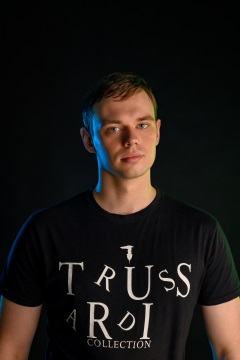
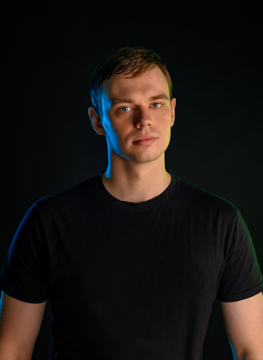
feat: advisors in /team page feat: facebook and linkedin links in /team fix: hide scroll when popup has been invoked fix: replace CTO and Dzera photos

diff --git a/src/views/team/Team.vue b/src/views/team/Team.vue
@@ -7,9 +7,24 @@
         </div>
       </div>
       <div class="row justify-content-center justify-content-md-between team-row">
-        <template v-for="person in team">
+        <template v-for="person in members">
           <div :key="person.name" class="col-12 col-md-6 col-lg-4 col-xl-3 mt-5">
             <team-member :person="person" @member="invokePopup($event)" />
+          </div>
+        </template>
+      </div>
+    </div>
+
+    <div class="container pb-5">
+      <div class="row">
+        <div class="col-12">
+          <h2 v-html="$t('team.advisors')" class="section-title team-title"></h2>
+        </div>
+      </div>
+      <div class="row team-row">
+        <template v-for="advisor in advisors">
+          <div :key="advisor.name" class="col-12 col-md-6 col-lg-4 col-xl-3 mt-5">
+            <team-member :person="advisor" @member="invokePopup($event)" />
           </div>
         </template>
       </div>
@@ -20,7 +35,7 @@
         <button
           type="button"
           class="popup__btn-close"
-          @click="showPopup = false"
+          @click="togglePopup"
         >
           <svg class="popup__close-icon">
             <use xlink:href="#close-popup-icon"></use>
@@ -104,6 +119,8 @@ export default {
             'Speaks 6 languages (Turkish, English, Hebrew, Farsi, Russian, Azerbaijani)',
             'Long track record of work in the financial market in Europe and CIS',
           ],
+          linkedin: 'https://www.linkedin.com/in/iliyabiniaminov/',
+          facebook: 'https://www.facebook.com/iliya.biniaminov1',
         },
         {
           name: 'Alex Mikh',
@@ -121,6 +138,8 @@ export default {
             'Was responsible for business negotiations aimed at obtaining a payment system license in Cyprus',
             'Responsible for developing a currencies exchange system service',
           ],
+          linkedin: 'https://www.linkedin.com/in/alexmihk/',
+          facebook: 'https://www.facebook.com/alexey.mikhantev',
         },
         {
           name: 'George Gus',
@@ -136,6 +155,8 @@ export default {
             'Owner of MakeFresh, international marketing agency',
             'Experience in promotion of international corporations with HQs in Europe, Turkey, Dubai',
           ],
+          linkedin: 'https://www.linkedin.com/in/georgegus/',
+          facebook: 'https://www.facebook.com/georgegus01',
         },
         {
           name: 'Zakaria Mekreloufi',
@@ -149,6 +170,8 @@ export default {
             'Founder of MKG Real Estate & Investment, a leading brokerage company for asset management in the Middle East and North Africa with a head office in Dubai, UAE',
             'Has a CFA level 1 certificate and works closely with the government of Dubai, attracting investments in the stock and financial markets, as well as small and medium-sized businesses',
           ],
+          linkedin: 'https://www.linkedin.com/in/zakaria-mekreloufi-731b61158/',
+          facebook: '',
         },
         {
           name: 'Andrew Skurlatov',
@@ -165,6 +188,8 @@ export default {
             'Designed and managed the development of DEX exchange based on a proprietary blockchain system of smart contracts',
             'Designed and managed the development of cryptocurrency indexes',
           ],
+          linkedin: '',
+          facebook: '',
         },
         {
           name: 'Ivan Podtsebnev',
@@ -179,6 +204,8 @@ export default {
             'Expert in the topics of intranet protocol, virtualization and storage systems, architecture of algo trading robots',
             '2 years of experience in Federal Agency of Government Communications and Information (FAGCI)',
           ],
+          linkedin: '',
+          facebook: '',
         },
         {
           name: 'Nikita Velko',
@@ -194,6 +221,8 @@ export default {
             'Experience in development at several startups with high ratings on Product Hunt',
             'Developed a system of cryptocurrencies graphics for DEX exchange indexes',
           ],
+          linkedin: '',
+          facebook: '',
         },
         {
           name: 'Alex Ponomaryov',
@@ -208,6 +237,8 @@ export default {
             'Knows Java, C#, C ++, as well as basic algorithms, data structures, design patterns, SQL, Git Flow',
             'Made a game for Android, which had over 150,000 downloads',
           ],
+          linkedin: '',
+          facebook: '',
         },
         {
           name: 'Daniel Danilkin',
@@ -223,8 +254,9 @@ export default {
             'Was part of the team which developed a lending system in the banking sector',
             'Participant as a developer in several open source projects',
           ],
+          linkedin: '',
+          facebook: '',
         },
-
         {
           name: 'Dzhavid Khalilov',
           role: 'Android developer',
@@ -239,8 +271,9 @@ export default {
             'Winner of payment system QIWI API Contest (2017)',
             'Developed an app for monitoring of cryptocurrencies prices',
           ],
+          linkedin: '',
+          facebook: '',
         },
-
         {
           name: 'Dzera Gazdanova',
           role: 'Press Secretary',
@@ -256,8 +289,9 @@ export default {
             'Was a chief  editor of the project in the Rosbalt news agency',
             'Knows Ossetian,  English, Russian and Greek languages',
           ],
+          linkedin: '',
+          facebook: '',
         },
-
         {
           name: 'Alina Belova',
           role: 'Public Relations',
@@ -273,6 +307,42 @@ export default {
             'Was a chief of a model agency',
             'Owns a business in organizing contests, events, private summits',
           ],
+          linkedin: '',
+          facebook: '',
+        },
+        {
+          name: 'Namig Mamedov',
+          role: 'Technical advisor',
+          photo: {
+            x1: require('./namig-mamedov.jpg'), // eslint-disable-line
+            x2: require('./namig-mamedov@2x.jpg'), // eslint-disable-line
+            x3: require('./namig-mamedov@3x.jpg'), // eslint-disable-line
+          },
+          list: [
+            'He was the director of the Sales and Marketing department at Caspian American Telecom',
+            'From 2002 to 2005, he was a senior manager at Caspian Electronics',
+            'In 2005, he was appointed to the post of CEO of LLC Caspel',
+            'Since 2008 to this day, Masum is chairman of the Board of the Caspel international holding company',
+          ],
+          linkedin: '',
+          facebook: '',
+        },
+        {
+          name: 'Andrew Koch',
+          role: 'Singapore Investment Advisor',
+          photo: {
+            x1: require('./andrew-koch.jpg'), // eslint-disable-line
+            x2: require('./andrew-koch@2x.jpg'), // eslint-disable-line
+            x3: require('./andrew-koch@3x.jpg'), // eslint-disable-line
+          },
+          list: [
+            'Не is an advisor of Singapore’s government, a businessman and a public figure',
+            'Has more than 28 years of expertise covering all aspects of banking and enterprise risk management including credit risk, market risk, operational risk, technology risk, as well as fraud risk and cyber risk',
+            'Currently, Andrew is the Director at the Investment Management Association of Singapore (“IMAS”)',
+            'Involved in more than 200 technology projects, connected with risk management and financial technologies',
+          ],
+          linkedin: 'https://sg.linkedin.com/in/andrewkohmw',
+          facebook: '',
         },
       ],
     };
@@ -283,7 +353,12 @@ export default {
   methods: {
     invokePopup(name) {
       this.memberToShow = this.team.findIndex(el => el.name === name);
-      this.showPopup = true;
+      this.togglePopup();
+    },
+    togglePopup() {
+      this.showPopup = !this.showPopup;
+
+      document.documentElement.classList.toggle('overflow-hidden');
     },
     selectTeamMember(direction) {
       if (this.memberToShow === 0 && direction < 0) {
@@ -300,6 +375,14 @@ export default {
       return false;
     },
   },
+  computed: {
+    members() {
+      return this.team.slice(0, 12);
+    },
+    advisors() {
+      return this.team.slice(12);
+    },
+  },
 };
 </script>
 
@@ -308,7 +391,7 @@ export default {
 
 .team-row {
   margin-top: 50px;
-  margin-bottom: 230px;
+  margin-bottom: 50px;
 }
 
 .team-title {

diff --git a/src/components/blocks/teamMember/teamMember.vue b/src/components/blocks/teamMember/teamMember.vue
@@ -8,6 +8,31 @@
           class="team-member__photo"
           alt=""
         >
+        <div class="icons-wrap">
+          <a
+            v-if="person.facebook.length > 0"
+            :href="person.facebook"
+            target="_blank"
+            rel="noreferrer noopener"
+            @click.stop
+          >
+            <svg class="icon">
+              <use xlink:href="#icon--facebook--colored"></use>
+            </svg>
+          </a>
+          <a
+            v-if="person.linkedin.length > 0"
+            :href="person.linkedin"
+            class="ml-1"
+            target="_blank"
+            rel="noreferrer noopener"
+            @click.stop
+          >
+            <svg class="icon">
+              <use xlink:href="#icon--linked-in--colored"></use>
+            </svg>
+          </a>
+        </div>
       </div>
       <h4 class="team-member__name">{{ person.name }}</h4>
       <p class="team-member__role">{{ person.role }}</p>
@@ -17,6 +42,8 @@
 
 <script>
 import './close-popup-icon.svg';
+import './icon--facebook--colored.svg';
+import './icon--linked-in--colored.svg';
 
 export default {
   name: 'team-member',
@@ -30,6 +57,8 @@ export default {
           name: '',
           role: '',
           list: [],
+          linkedin: '',
+          facebook: '',
         };
       },
     },
@@ -51,7 +80,14 @@ export default {
 }
 
 .team-member__photo-wrap {
+  position: relative;
   transition: box-shadow .2s ease;
+}
+
+.icons-wrap {
+  position: absolute;
+  right: 10px;
+  bottom: 10px;
 }
 
 .team-member__photo {
@@ -76,5 +112,10 @@ export default {
   letter-spacing: 0.5px;
   color: $sky-blue;
   margin-top: 6px;
+}
+
+.icon {
+  width: 35px;
+  height: 35px;
 }
 </style>

diff --git a/src/assets/styles/main.scss b/src/assets/styles/main.scss
@@ -26,8 +26,13 @@ video {
   outline: none !important;
 }
 
+
 a, a:hover {
   text-decoration: none;
+}
+
+.overflow-hidden {
+  overflow: hidden;
 }
 
 .dark-blue {
